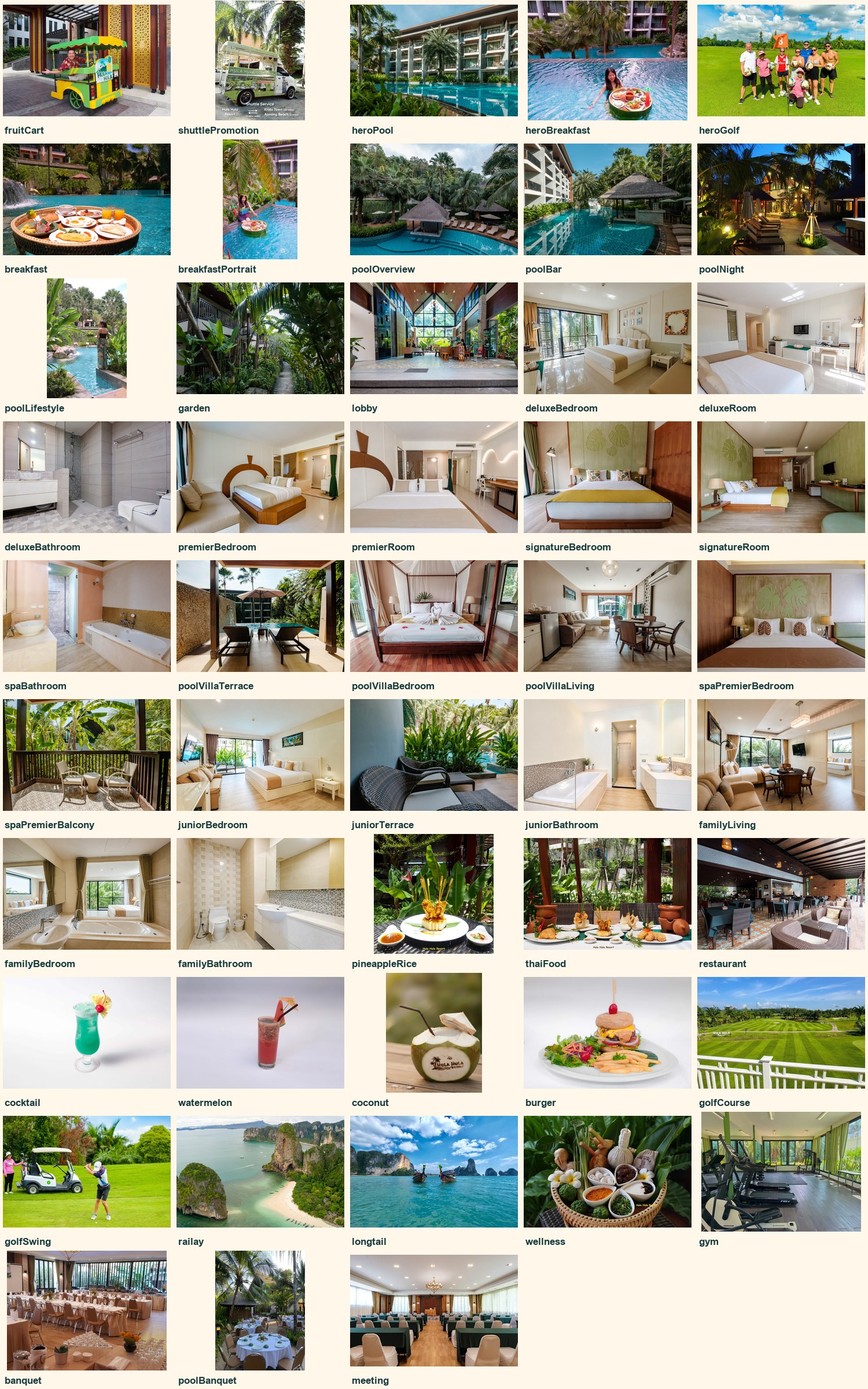
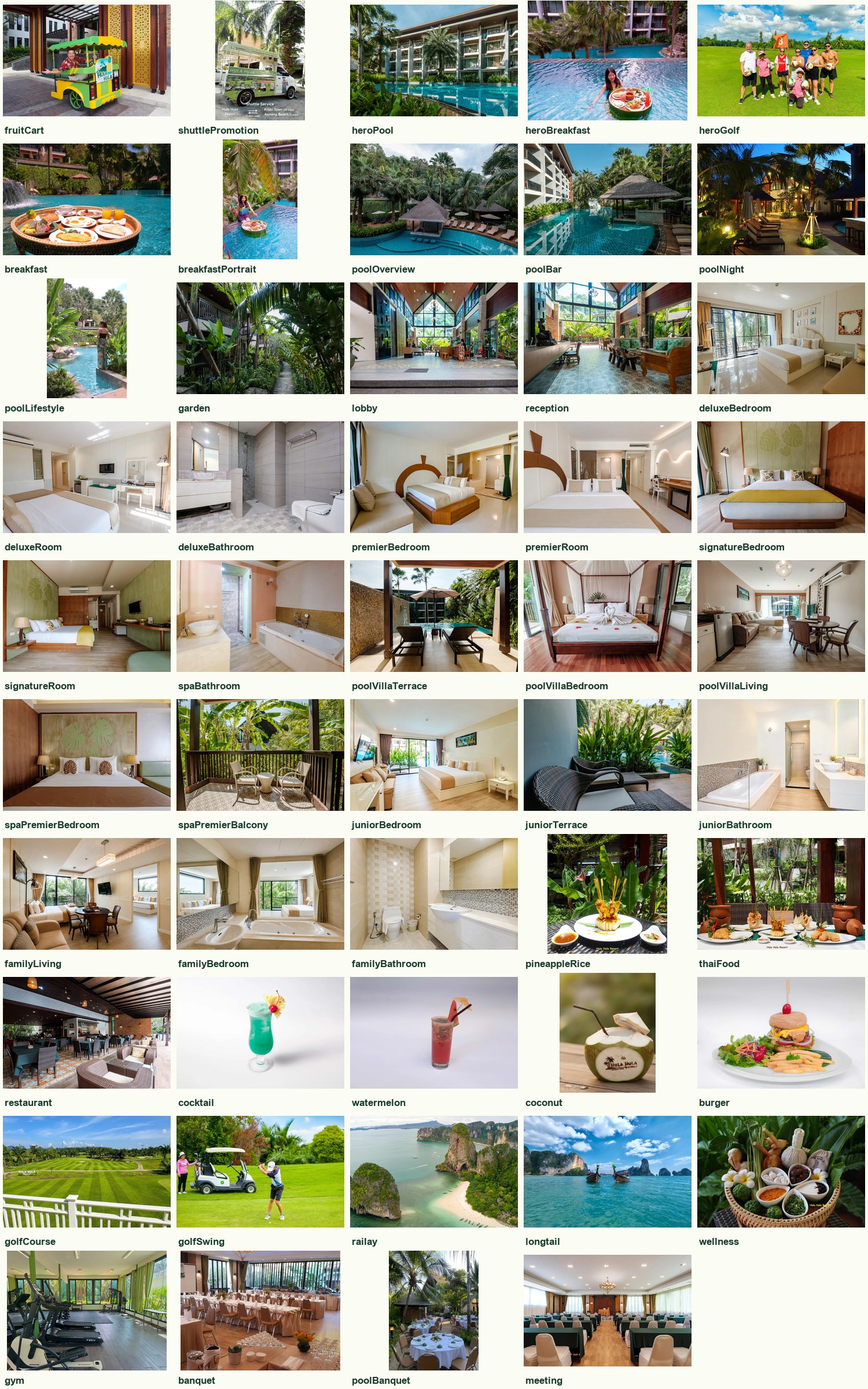
Welcome visitors with the resort reception photo on the homepage

diff --git a/src/components/hero/HeroCarousel.tsx b/src/components/hero/HeroCarousel.tsx
@@ -5,12 +5,12 @@ import { ResortPhoto } from '../common/ResortPhoto';
 export function HeroCarousel({ slides, index, onSelect }: { slides: HeroSlide[]; index: number; onSelect: (i: number) => void }) {
   const slide = slides[index];
   return <Box sx={{ position: 'relative', height: '100%' }}>
-    <ResortPhoto image={slide.image} alt={slide.headline.join(' ')} eager sizes="(max-width: 900px) 90vw, 45vw" sx={{ objectPosition: index === 2 ? 'center' : 'center 55%' }} />
+    <ResortPhoto image={slide.image} alt={index === 0 ? 'Hula Hula reception counter and lounge with tropical plants' : slide.headline.join(' ')} eager sizes="(max-width: 900px) 90vw, 45vw" sx={{ objectPosition: index === 0 ? 'center 45%' : index === 2 ? 'center' : 'center 55%' }} />
     <Box sx={{ position: 'absolute', inset: '45% 0 0', background: 'linear-gradient(transparent, rgba(18,78,57,.8))', pointerEvents: 'none' }} />
     <Box sx={{ position: 'absolute', bottom: 22, left: { xs: 20, md: 30 }, right: 20, pl: { xs: 16, md: 19 }, color: 'white' }}>
       <Typography variant="h3" sx={{ fontSize: { xs: 23, md: 28 }, lineHeight: 1.1, mb: 1.5 }}>{slide.headline.join(' ')}</Typography>
       <Stack direction="row" spacing={.6} flexWrap="wrap" useFlexGap>
-        {['Pool days', 'Breakfast', 'Play time'].map((label, i) => <Button key={label} onClick={() => onSelect(i)} aria-pressed={i === index} aria-label={`Show ${label.toLowerCase()} photo`} size="small" sx={{ fontSize: 10, minWidth: 0, py: .6, px: 1.1, color: i === index ? 'text.primary' : 'white', bgcolor: i === index ? 'secondary.main' : 'rgba(255,255,255,.16)', '&:hover': { bgcolor: 'secondary.main', color: 'text.primary' } }}>{label}</Button>)}
+        {['Welcome', 'Breakfast', 'Play time'].map((label, i) => <Button key={label} onClick={() => onSelect(i)} aria-pressed={i === index} aria-label={`Show ${label.toLowerCase()} photo`} size="small" sx={{ fontSize: 10, minWidth: 0, py: .6, px: 1.1, color: i === index ? 'text.primary' : 'white', bgcolor: i === index ? 'secondary.main' : 'rgba(255,255,255,.16)', '&:hover': { bgcolor: 'secondary.main', color: 'text.primary' } }}>{label}</Button>)}
       </Stack>
     </Box>
   </Box>;

diff --git a/index.html b/index.html
@@ -11,7 +11,7 @@
     <link rel="stylesheet" href="/vendor/scrollcraft/scrollcraft.css" />
     <link rel="stylesheet" href="/styles/hula-scroll.css" />
     <link rel="icon" type="image/svg+xml" href="/logo/hula-hula.svg" />
-    <link rel="preload" as="image" href="/images/hula-hula/heroPool-960.webp" imagesrcset="/images/hula-hula/heroPool-480.webp 480w, /images/hula-hula/heroPool-960.webp 960w, /images/hula-hula/heroPool-1600.webp 1600w" imagesizes="(min-width: 900px) 55vw, 100vw" />
+    <link rel="preload" as="image" href="/images/hula-hula/reception-960.webp" imagesrcset="/images/hula-hula/reception-480.webp 480w, /images/hula-hula/reception-960.webp 960w, /images/hula-hula/reception-1600.webp 1600w" imagesizes="(max-width: 900px) 90vw, 45vw" />
   </head>
   <body>
     <div id="root"></div>

diff --git a/src/data/photos.ts b/src/data/photos.ts
@@ -93,6 +93,13 @@ export const photoAssets = {
     "height": 1067,
     "source": "photos/01 Resort and Grounds/Lobby and Reception/hula-hula-high-ceiling-lobby-and-glass-gable.jpg"
   },
+  "reception": {
+    "src": "/images/hula-hula/reception-1600.webp",
+    "srcSet": "/images/hula-hula/reception-480.webp 480w, /images/hula-hula/reception-960.webp 960w, /images/hula-hula/reception-1600.webp 1600w",
+    "width": 1600,
+    "height": 1067,
+    "source": "photos/01 Resort and Grounds/Lobby and Reception/hula-hula-reception-counter-and-lounge-seating.jpg"
+  },
   "deluxeBedroom": {
     "src": "/images/hula-hula/deluxeBedroom-1600.webp",
     "srcSet": "/images/hula-hula/deluxeBedroom-480.webp 480w, /images/hula-hula/deluxeBedroom-960.webp 960w, /images/hula-hula/deluxeBedroom-1600.webp 1264w",

diff --git a/src/data/content.ts b/src/data/content.ts
@@ -6,7 +6,7 @@ export const navItems: NavItem[] = [
 ];
 
 export const heroSlides: HeroSlide[] = [
-  { image: p.heroPool.src, headline: ['Pool days,', 'happy days.'], text: 'Palms overhead. A pool at your feet. Welcome to your happy place.' },
+  { image: p.reception.src, headline: ['A warm', 'Hula welcome.'], text: 'A sunny lobby, tropical greenery, and a warm Hula Hula welcome.' },
   { image: p.heroBreakfast.src, headline: ['Breakfast with', 'a splash.'], text: 'Slow mornings taste even better with a floating breakfast.' },
   { image: p.heroGolf.src, headline: ['A little play', 'goes a long way.'], text: 'Gather your favourite people for a day at Hula Hula Golf Club.' },
 ];

diff --git a/scripts/prepare-resort-photos.py b/scripts/prepare-resort-photos.py
@@ -22,6 +22,7 @@ SELECTION = {
     'poolLifestyle': 'hula-hula-guest-standing-beside-tropical-pool',
     'garden': 'hula-hula-palm-lined-walkway-between-villas',
     'lobby': 'hula-hula-high-ceiling-lobby-and-glass-gable',
+    'reception': 'hula-hula-reception-counter-and-lounge-seating',
     'deluxeBedroom': 'hula-hula-deluxe-garden-street-view-bedroom-and-garden-balcony',
     'deluxeRoom': 'hula-hula-deluxe-garden-street-view-bedroom-television-and-dressing-table',
     'deluxeBathroom': 'hula-hula-deluxe-garden-street-view-bathroom-walk-in-shower-and-vanity',

diff --git a/scrollcraft/builds/hula-hula/VERIFICATION.md b/scrollcraft/builds/hula-hula/VERIFICATION.md
@@ -2,6 +2,16 @@
 
 Verified on 11 October 2026 using the session's supported Opera browser controls.
 
+## Current homepage: reception and lounge
+
+At the user's request, the default hero uses `hula-hula-reception-counter-and-lounge-seating.jpg`. Three candidate lobby/arrival photographs were inspected before selection. The sunlit reception and lounge photograph was chosen for its welcome desk, tropical greenery, and seating.
+
+Generated 480/960/1600 WebP variants: 45,220 / 144,984 / 337,768 bytes. There are now 49 selected photographs and 147 WebP files, 15.40 MB total. Original photographs remain intact. The preparation script includes the new selection.
+
+Verified desktop at 1844 × 867 and phone at 390 × 844: photo loads with an appropriate crop and no horizontal overflow. The hero uses the 960-pixel variant on desktop and 480-pixel variant on phone. Its preload uses the same responsive sizes as the image. Breakfast and Welcome selectors work; Welcome is selected by default. TypeScript checks pass.
+
+Screenshots: `design-preview/reception-hero-desktop.png` and `design-preview/reception-hero-mobile.png`. The static breakfast revision below remains current.
+
 ## Current revision: static floating breakfast
 
 At the user's request, the breakfast scene is now static on all screen sizes. Removed its Scroll Craft act, stage and span, animated photo zoom, moving postcard/sticker, and ripple elements. It is ordinary document flow; the photos and inquiry button remain available.
@@ -9,6 +19,8 @@ At the user's request, the breakfast scene is now static on all screen sizes. Re
 Desktop verification: section height 662 px at 1844 × 867, no stage or act attributes. After scrolling, the section top moves from 114.1 px to −58.9 px while the postcard transform remains the same fixed −5-degree rotation. Phone verification at 390 × 844: no horizontal overflow, no Scroll Craft attributes inside breakfast, both photos visible. The postcard caption fits one line inside its frame.
 
 TypeScript checks and the production build pass. Screenshots: `design-preview/breakfast-static-desktop.png` and `design-preview/breakfast-static-mobile.png`. Earlier animated-scene evidence below records the initial preview and is superseded by this revision.
+
+Static update commit `8c44130` is deployed and Ready at the same branch preview URL. Live inspection confirms no breakfast act or stage, both images loaded, and the fixed postcard rotation. Live screenshot: `design-preview/breakfast-static-live.png`.
 
 ## Build and assets
 

diff --git a/design-preview/README.md b/design-preview/README.md
@@ -1,6 +1,8 @@
 # Hula Hula tropical scroll preview
 
-The site uses 48 selected photographs from `photos/` for the resort, seven room and villa categories, dining, activities, celebrations, and a filterable gallery. Original photographs are preserved. Floating breakfast, the resort fruit cart, and the full shuttle promotion are featured in their own scenes.
+The site uses 49 selected photographs from `photos/` for the resort, seven room and villa categories, dining, activities, celebrations, and a filterable gallery. Original photographs are preserved. Floating breakfast, the resort fruit cart, and the full shuttle promotion are featured in their own scenes.
+
+The homepage opens with the sunlit reception counter and lounge photograph. Its Welcome photo selector, descriptive alt text, and responsive preload match the new image. The 480-pixel WebP is 45 kB and the 960-pixel WebP is 145 kB. The first photo switches manually, and the breakfast section stays static.
 
 Leaf green, turquoise, pineapple yellow, and their shades and white tints come from the original logo. The logo is displayed larger. Scroll Craft drives independent hero layers, photo entrances, and the shuttle route. Floating breakfast is a static photo composition on every screen, with no pinning, animated ripples, photo zoom, or moving postcard. The header and mobile menu include a persistent motion pause control; the operating system's reduced-motion preference is also respected.
 
